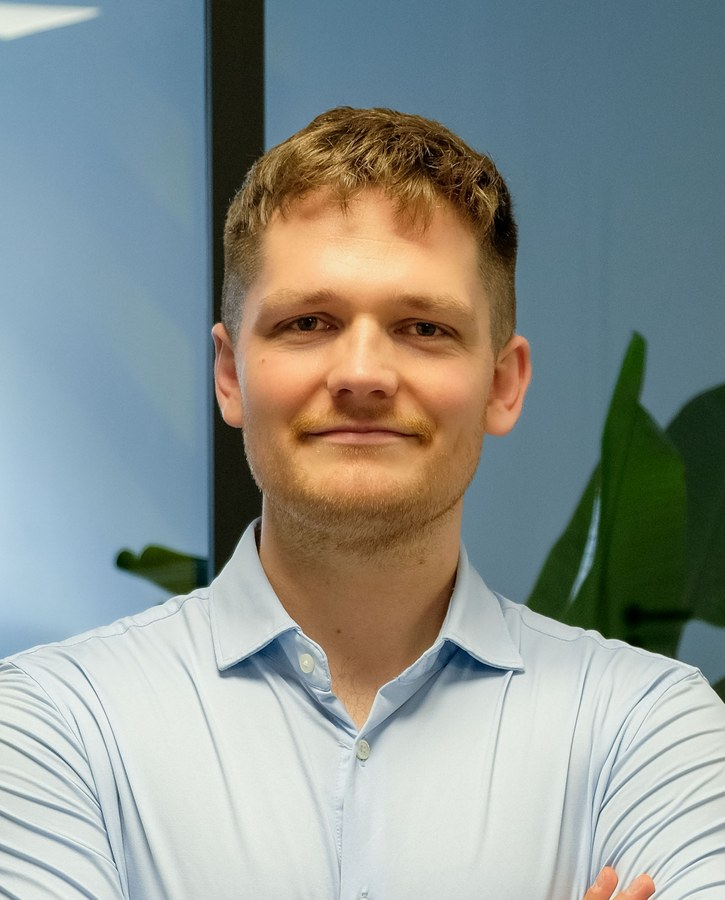
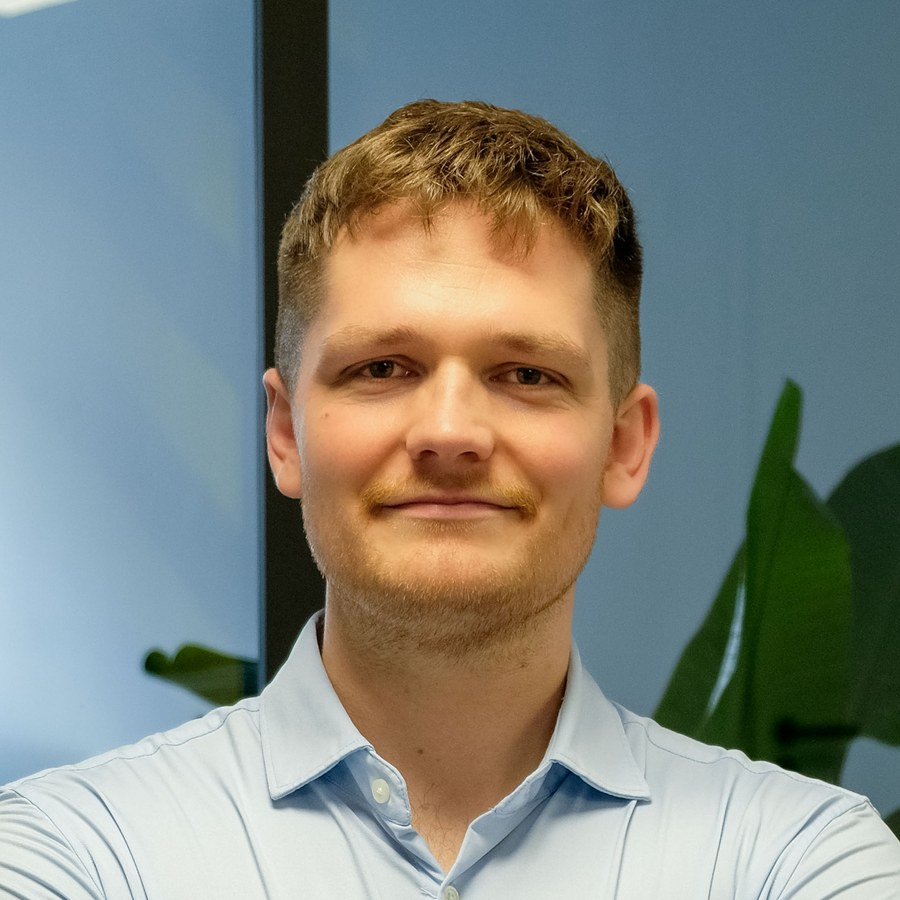
Portraits: 1:1-Format, weniger Luft ueber Kopf; Container wieder quadratisch

diff --git a/index.html b/index.html
@@ -360,7 +360,7 @@ section{padding:var(--pad) 0;position:relative}
 @media(max-width:860px){.team-story{max-width:560px}}
 .person{position:relative;border:1px solid var(--line);background:var(--white);border-radius:var(--r);padding:1.9rem;display:flex;gap:1.2rem;transition:.3s}
 .person:hover{box-shadow:var(--shadow);transform:translateY(-3px)}
-.person .ph{width:66px;height:82px;border-radius:16px;background:linear-gradient(150deg,rgba(31,111,165,.16),rgba(31,168,90,.12));background-size:cover;background-position:center 20%;flex-shrink:0}
+.person .ph{width:66px;height:66px;border-radius:16px;background:linear-gradient(150deg,rgba(31,111,165,.16),rgba(31,168,90,.12));background-size:cover;background-position:center center;flex-shrink:0}
 .person .ph-j{background-image:url("img/jerome.jpg")}.person .ph-m{background-image:url("img/max.jpg")}
 .person h3{font-size:1.12rem}.person .role{font-family:var(--mono);font-size:.72rem;letter-spacing:.04em;color:var(--steel);text-transform:uppercase;margin:.25rem 0 .6rem}
 .person p{font-size:.88rem;color:var(--muted)}
